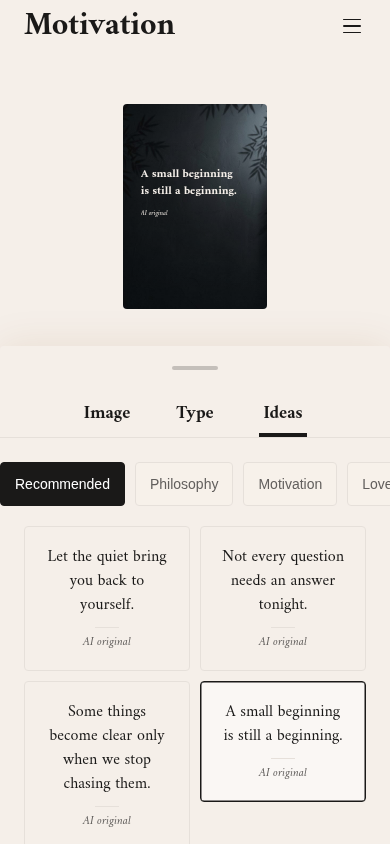
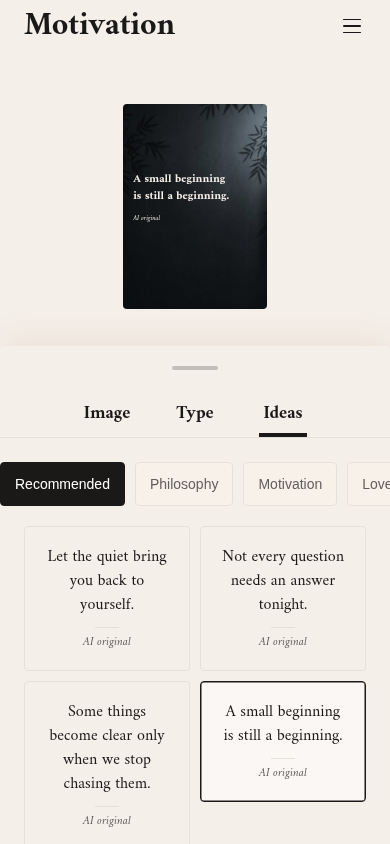
Add settings navigation and local favorites management

Changed region(s): [[0.3385, 0.1848, 0.6154, 0.2773]]

diff --git a/app.js b/app.js
@@ -20,12 +20,17 @@
     catch { storageError('Your changes couldn’t be saved on this device.'); return false; }
   }
   function toast(message) { clearTimeout(timer); $('#toast').textContent = message; $('#toast').classList.add('visible'); timer = setTimeout(() => $('#toast').classList.remove('visible'),3000); }
+  function paint(wallpaper, value) {
+    const image = wallpaper.querySelector('.wallpaper-image');
+    if (image.getAttribute('src') !== backgrounds[value.background]) image.src = backgrounds[value.background];
+    wallpaper.querySelector('.quote').textContent = value.quote;
+    wallpaper.querySelector('.source').textContent = value.source;
+    wallpaper.querySelector('.wallpaper-copy').style.textAlign = value.align;
+  }
   function render() {
-    $$('.wallpaper-image').forEach(img => { if (img.getAttribute('src') !== backgrounds[design.background]) img.src = backgrounds[design.background]; });
-    $$('.quote').forEach(el => el.textContent = design.quote);
-    $$('.source').forEach(el => el.textContent = design.source);
-    $$('.wallpaper-copy').forEach(el => el.style.textAlign = design.align);
+    $$('#home .wallpaper, #preview-close .wallpaper').forEach(el => paint(el, design));
     $('#entry-image').src = backgrounds[design.background];
+    $('#favorites-count').textContent = favorites.length;
     const isFavorite = favorites.some(d => signature(d) === signature(design));
     $('#favorite').setAttribute('aria-pressed', String(isFavorite));
     $('#favorite').setAttribute('aria-label', isFavorite ? 'Remove from favorites' : 'Add to favorites');
@@ -44,7 +49,7 @@
   $$('[data-open]').forEach(el => el.addEventListener('click',() => { returnFocus=el; syncFields(); changeTab(el.dataset.open); setExpanded(false); editor.hidden=false; document.body.classList.add('editing'); $('#home').inert=true; $('.header').inert=true; document.body.style.overflow='hidden'; $('#tab-'+el.dataset.open).focus(); }));
   $('#brand').addEventListener('click',() => window.scrollTo({top:0,behavior:'smooth'}));
   $('#preview-close').addEventListener('click',close);
-  $('#menu').addEventListener('click',() => toast('Menu pages haven’t been added yet.'));
+  $('#menu').addEventListener('click',() => navigate('settings'));
   $('#save').addEventListener('click',() => toast('Saving images isn’t enabled in this demo yet.'));
   $('#share').addEventListener('click',() => toast('System sharing isn’t enabled in this demo yet.'));
   $('#favorite').addEventListener('click',() => {
@@ -140,6 +145,69 @@
     $$('[data-category]').forEach(el => el.setAttribute('aria-pressed',String(el.dataset.category===category))); render();
   }
   $$('[data-category]').forEach(el => el.addEventListener('click',() => { category=el.dataset.category; renderIdeas(); }));
+  function navigate(page = '') {
+    window.history.pushState(null, '', page ? '#' + page : window.location.pathname + window.location.search);
+    renderRoute();
+  }
+  function renderFavorites() {
+    const grid = $('#favorites-grid');
+    grid.replaceChildren();
+    $('#favorites-empty').hidden = favorites.length > 0;
+    favorites.forEach((saved, index) => {
+      const item = document.createElement('div'); item.className = 'favorite-item';
+      const restore = document.createElement('button'); restore.type = 'button'; restore.className = 'favorite-restore';
+      restore.setAttribute('aria-label', 'Use wallpaper: ' + (saved.quote || 'Untitled'));
+      const wallpaper = $('#home .wallpaper').cloneNode(true);
+      paint(wallpaper, saved); restore.append(wallpaper);
+      restore.addEventListener('click', () => { design = {...saved}; syncFields(); render(); persist(); navigate(); });
+      const remove = document.createElement('button'); remove.type = 'button'; remove.className = 'favorite-remove'; remove.textContent = 'Remove';
+      remove.setAttribute('aria-label', 'Remove wallpaper: ' + (saved.quote || 'Untitled'));
+      remove.addEventListener('click', () => {
+        const previous = favorites.slice(); favorites.splice(index, 1);
+        if (!persist()) { favorites = previous; toast('Your favorite couldn’t be removed on this device.'); return; }
+        render(); renderFavorites();
+        (grid.querySelector('.favorite-remove') || $('#detail-title')).focus();
+      });
+      item.append(restore, remove); grid.append(item);
+    });
+  }
+  function renderRoute(focus = true) {
+    const page = window.location.hash.slice(1);
+    const detail = ['favorites', 'language', 'feedback', 'privacy'].includes(page);
+    const settings = page === 'settings';
+    $('#home').hidden = settings || detail;
+    $('.header').hidden = settings || detail;
+    $('#settings').hidden = !settings;
+    $('#settings-detail').hidden = !detail;
+    $$('.detail-panel').forEach(el => { el.hidden = el.id !== 'detail-' + page; });
+    if (detail) {
+      const titles = {favorites:'Favorites', language:'Language', feedback:'Feedback', privacy:'Privacy Policy'};
+      $('#detail-title').textContent = titles[page];
+      if (page === 'favorites') renderFavorites();
+    }
+    const heading = detail ? $('#detail-title') : settings ? $('#settings-title') : $('#brand');
+    heading.tabIndex = -1;
+    if (focus) { window.scrollTo(0, 0); heading.focus({preventScroll:true}); }
+  }
+  $$('[data-settings]').forEach(el => el.addEventListener('click', () => navigate(el.dataset.settings)));
+  $('#settings-back').addEventListener('click', () => navigate());
+  $('#detail-back').addEventListener('click', () => navigate('settings'));
+  $('#favorites-home').addEventListener('click', () => navigate());
+  $('#english-language').addEventListener('click', () => {
+    try { localStorage.setItem('motivation.language', 'en'); toast('Language set to English'); }
+    catch { toast('Your language preference couldn’t be saved on this device.'); }
+  });
+  $('#copy-feedback').addEventListener('click', async () => {
+    const field = $('#feedback-input'), status = $('#feedback-status');
+    if (!field.value.trim()) { status.textContent = 'Please enter your feedback first.'; field.focus(); return; }
+    try {
+      if (!navigator.clipboard?.writeText) throw Error('Clipboard unavailable');
+      await navigator.clipboard.writeText(field.value);
+      status.textContent = 'Feedback copied. It has not been sent.';
+    } catch { field.focus(); field.select(); status.textContent = 'Copy isn’t available here. Select and copy your message manually.'; }
+  });
+  window.addEventListener('hashchange', () => renderRoute());
+  window.addEventListener('popstate', () => renderRoute());
   let drag=null, suppressClick=false;
   $('#handle').addEventListener('click',() => { if (suppressClick) { suppressClick=false; return; } setExpanded(!expanded); });
   $('#handle').addEventListener('pointerdown',event => { if (event.button!==0) return; suppressClick=false; drag={y:event.clientY,height:sheet.getBoundingClientRect().height,expanded}; event.currentTarget.setPointerCapture(event.pointerId); });
@@ -168,5 +236,5 @@
   window.visualViewport?.addEventListener('resize',viewport); window.visualViewport?.addEventListener('scroll',viewport); viewport();
   document.addEventListener('focusin',event => { if (event.target.matches('textarea')) setTimeout(() => event.target.scrollIntoView({block:'nearest'}),100); });
   window.addEventListener('pagehide',persist);
-  syncFields(); renderIdeas(); render();
+  syncFields(); renderIdeas(); render(); renderRoute(false);
 })();

diff --git a/index.html b/index.html
@@ -1,6 +1,6 @@
 <!doctype html>
 <html lang="en">
-<head><meta charset="utf-8"><meta name="viewport" content="width=device-width, initial-scale=1, viewport-fit=cover"><meta name="theme-color" content="#F5EFE9"><title>Motivation</title><link rel="stylesheet" href="styles.css?v=20261020-2"><script src="app.js?v=20261020-2" defer></script></head>
+<head><meta charset="utf-8"><meta name="viewport" content="width=device-width, initial-scale=1, viewport-fit=cover"><meta name="theme-color" content="#F5EFE9"><title>Motivation</title><link rel="stylesheet" href="styles.css?v=20261021-1"><script src="app.js?v=20261021-1" defer></script></head>
 <body>
 <div class="app">
 <header class="header"><button class="brand" id="brand">Motivation</button><button class="icon-button menu" id="menu" aria-label="Open menu"><span></span><span></span><span></span></button></header>
@@ -19,6 +19,24 @@
 <button class="primary" id="save">Save</button>
 <p id="storage-error" class="error" role="status" hidden></p>
 </main>
+
+<section id="settings" class="settings" aria-labelledby="settings-title" hidden>
+  <header class="page-heading"><button type="button" class="back-button" id="settings-back" aria-label="Back to home">‹</button><h1 id="settings-title">Settings</h1></header>
+  <nav class="settings-list" aria-label="Settings">
+    <button type="button" class="settings-row" data-settings="language"><span>Language</span><span class="row-detail">English <span aria-hidden="true">›</span></span></button>
+    <button type="button" class="settings-row" data-settings="favorites"><span>Favorites</span><span class="row-detail"><span id="favorites-count">0</span> <span aria-hidden="true">›</span></span></button>
+    <button type="button" class="settings-row" data-settings="feedback"><span>Feedback</span><span aria-hidden="true">›</span></button>
+    <button type="button" class="settings-row" data-settings="privacy"><span>Privacy Policy</span><span aria-hidden="true">›</span></button>
+    <div class="settings-row version-row"><span>Version</span><span id="version-value" class="row-detail">Demo</span></div>
+  </nav>
+</section>
+<section id="settings-detail" class="settings" aria-labelledby="detail-title" hidden>
+  <header class="page-heading"><button type="button" class="back-button" id="detail-back" aria-label="Back to settings">‹</button><h1 id="detail-title">Favorites</h1></header>
+  <div id="detail-favorites" class="detail-panel" hidden><div id="favorites-grid" class="favorites-grid"></div><div id="favorites-empty" class="empty-state"><h2>No favorites yet</h2><p>Tap the bookmark on a wallpaper to keep it here.</p><button type="button" class="primary" id="favorites-home">Create a wallpaper</button></div></div>
+  <div id="detail-language" class="detail-panel" hidden><button type="button" class="settings-row" id="english-language" aria-pressed="true"><span>English</span><span aria-hidden="true">✓</span></button></div>
+  <div id="detail-feedback" class="detail-panel" hidden><label for="feedback-input">Your feedback</label><textarea id="feedback-input" rows="6" placeholder="Tell us what could be better…"></textarea><p class="helper" id="feedback-note">A feedback destination has not been configured yet. Your message is not sent.</p><button type="button" class="primary" id="copy-feedback">Copy feedback</button><p class="helper" id="feedback-status" role="status"></p></div>
+  <div id="detail-privacy" class="detail-panel policy-copy" hidden><p>Privacy details for this demo are awaiting review.</p></div>
+</section>
 <div id="editor" class="editor" role="dialog" aria-modal="true" aria-label="Wallpaper editor" hidden>
 <button class="preview-backdrop" id="preview-close" aria-label="Close editor and return home"><span class="mini-preview"><div class="wallpaper"><img class="wallpaper-image" src="assets/provided-night-0.jpg" alt=""><div class="wallpaper-copy"><p class="quote"></p><p class="source"></p></div></div></span></button>
 <section id="sheet" class="sheet">

diff --git a/styles.css b/styles.css
@@ -9,3 +9,9 @@
 .wallpaper:after{content:"";position:absolute;inset:0;background:linear-gradient(transparent,rgba(0,0,0,.12),transparent);pointer-events:none}.wallpaper-copy{z-index:1}
 
 body.editing #home{visibility:hidden}
+
+/* Settings use the existing page surface, spacing, border and type roles. */
+.settings{min-height:70dvh}.page-heading{display:flex;align-items:center;gap:12px;margin:0 0 24px;min-height:52px}.page-heading h1{font:700 28px/36px var(--serif);margin:0}.back-button{min-width:44px;min-height:44px;font:32px/1 var(--sans);margin-left:-12px}.settings-list{border-top:1px solid var(--border)}.settings-row{display:flex;justify-content:space-between;align-items:center;gap:16px;width:100%;min-height:60px;padding:16px 0;border-bottom:1px solid var(--border);text-align:left;font-size:16px}.row-detail{display:flex;gap:12px;align-items:center;color:var(--secondary);font-size:14px}.version-row{cursor:default}.favorites-grid{display:grid;grid-template-columns:repeat(2,minmax(0,1fr));gap:18px 10px}.favorite-item{min-width:0}.favorite-restore{display:block;width:100%;padding:0;border-radius:4px}.favorite-remove{font-size:13px;min-height:44px;color:var(--secondary);text-decoration:underline;text-underline-offset:4px}.empty-state{padding:40px 0;text-align:center}.empty-state h2{font:700 24px/32px var(--serif);margin:0 0 12px}.empty-state p,.policy-copy p{font-size:14px;line-height:24px;color:var(--secondary);margin:0 0 24px}.empty-state .primary{margin-top:12px}.policy-copy h2{font:700 20px/28px var(--serif);margin:24px 0 12px}
+/* Shared reference-space padding: 24 px top/sides; 10 px above actions. */
+.wallpaper-copy{inset:7.01754cqw 7.01754cqw 21.05263cqw;max-height:none;display:flex;flex-direction:column;justify-content:center;overflow:hidden}.quote,.source{flex-shrink:0}
+.entry>svg{width:39px;height:39px;flex-shrink:0}

diff --git a/tests/ui_smoke.py b/tests/ui_smoke.py
@@ -1,4 +1,4 @@
-from playwright.sync_api import sync_playwright
+from playwright.sync_api import sync_playwright, expect
 import json
 from pathlib import Path
 Path("/tmp/motivation-review").mkdir(exist_ok=True)
@@ -94,6 +94,39 @@ with sync_playwright() as p:
  box=page.locator('#handle').bounding_box();x=box['x']+65;y=box['y']+22
  page.mouse.move(x,y);page.mouse.down();page.mouse.move(x,y+100,steps=8);page.mouse.up()
  assert page.locator('#editor').is_hidden()
+ # Settings navigation, full-design favorites, language preference and truthful feedback.
+ page.locator('#menu').click()
+ page.locator('[data-settings="favorites"]').click()
+ expect(page.locator('.favorite-item')).to_have_count(1)
+ favorite_quote=page.locator('.favorite-item .quote').inner_text()
+ assert favorite_quote==quote
+ page.screenshot(path='/tmp/motivation-review/favorites.png')
+ page.locator('.favorite-restore').click()
+ assert page.locator('#home .quote').inner_text()==quote
+ assert page.locator('#editor').is_hidden()
+ page.locator('#menu').click()
+ page.screenshot(path='/tmp/motivation-review/settings.png')
+ page.locator('[data-settings="favorites"]').click()
+ page.locator('.favorite-remove').click()
+ assert page.locator('#favorites-empty').is_visible()
+ page.reload(wait_until='networkidle')
+ assert page.locator('#favorites-empty').is_visible()
+ page.locator('#detail-back').click()
+ page.locator('[data-settings="language"]').click()
+ page.locator('#english-language').click()
+ assert page.evaluate('localStorage.getItem("motivation.language")')=='en'
+ page.locator('#detail-back').click()
+ page.locator('[data-settings="feedback"]').click()
+ page.locator('#copy-feedback').click()
+ assert page.locator('#feedback-status').inner_text()=='Please enter your feedback first.'
+ page.locator('#feedback-input').fill('The panel could feel smoother.')
+ page.evaluate("Object.defineProperty(navigator, 'clipboard', {configurable:true, value:{writeText:()=>Promise.reject(new Error('denied'))}})")
+ page.locator('#copy-feedback').click()
+ assert 'manually' in page.locator('#feedback-status').inner_text()
+ page.locator('#detail-back').click()
+ page.locator('#settings-back').click()
+ expect(page.locator('#home')).to_be_visible()
+ assert not errors, errors
  # A denied storage write must not claim that a favorite was persisted.
  denied=browser.new_page(viewport={'width':390,'height':844})
  denied.add_init_script("Storage.prototype.setItem = function(){throw new DOMException('denied','SecurityError')}")
@@ -103,5 +136,5 @@ with sync_playwright() as p:
  assert denied.locator('#storage-error').is_visible()
  assert 'couldn’t be saved' in denied.locator('#toast').inner_text()
  denied.close()
- print(json.dumps({'result':'passed','widths':[320,375,390,430],'checks':['layout overflow','placeholder copy','long quote attribution','reload persistence','full-design favorite persistence','background selection','idea filtering and retained layout','populated AI quote categories','pointer drag','tab snap preservation','focus return and trap','truthful export status','empty preview','background geometry','downward dismiss','storage failure rollback','no simulated status gap','expanded sheet top','sticky tabs','specified placeholder and entered text color','no close icon or AI heading'],'pageErrors':errors}))
+ print(json.dumps({'result':'passed','widths':[320,375,390,430],'checks':['layout overflow','placeholder copy','long quote attribution','reload persistence','full-design favorite persistence','background selection','idea filtering and retained layout','populated AI quote categories','pointer drag','tab snap preservation','focus return and trap','truthful export status','empty preview','background geometry','downward dismiss','storage failure rollback','no simulated status gap','expanded sheet top','sticky tabs','specified placeholder and entered text color','no close icon or AI heading','settings navigation','favorite restore and removal','language preference','feedback failure handling'],'pageErrors':errors}))
  browser.close()

diff --git a/.agents/skills/motivation-design/references/design-system.md b/.agents/skills/motivation-design/references/design-system.md
@@ -156,4 +156,11 @@ The user supplied an updated HTML containing 12 dark backgrounds to replace the 
 - Quote placeholder is exactly “Please enter what you want to describe.” Both placeholder and entered quote text use #C4BFBA, matching the user's two explicit color values. Source field styling is unchanged.
 - Remove the “Original words · AI-created” heading above inspiration cards. This does not change the source of generated content or authorize false author attributions.
 - Remove the visible sheet close icon. Preview click, handle toggle, downward drag and Escape remain.
-- Typography and Inspiration icon replacements are pending user-supplied assets; keep current icons until received. Preferred transparent SVG at 39 × 39 and 34 × 34 logical dimensions respectively, or 3× transparent PNG at 117 × 117 and 102 × 102.
+- Typography and Inspiration icon replacements are pending user-supplied assets; keep current icons until received. Preferred transparent SVG with the same 39 × 39 logical canvas for both icons, or 3× transparent PNG at 117 × 117. Preserve internal whitespace; do not crop the supplied artwork.
+
+
+## Current settings and text-boundary work
+
+The user authorizes Settings implementation. Reuse existing ivory surfaces, thin dividers, serif titles and sans-serif operational labels. Favorites restore or remove full locally stored designs. Feedback copy must never imply submission. Language range, feedback destination and privacy/version copy await user replies; current placeholders are not completed features.
+
+The latest annotated screenshot specifies 24 px top/left/right in the reference wallpaper and at least 10 px between attribution and action buttons. Scale that shared reference composition for mini/favorite previews. Overflow behavior (input limit versus font fitting) requires user confirmation before adopting a new rule.

diff --git a/docs/DESIGN_SYSTEM.md b/docs/DESIGN_SYSTEM.md
@@ -156,4 +156,11 @@ The user supplied an updated HTML containing 12 dark backgrounds to replace the 
 - Quote placeholder is exactly “Please enter what you want to describe.” Both placeholder and entered quote text use #C4BFBA, matching the user's two explicit color values. Source field styling is unchanged.
 - Remove the “Original words · AI-created” heading above inspiration cards. This does not change the source of generated content or authorize false author attributions.
 - Remove the visible sheet close icon. Preview click, handle toggle, downward drag and Escape remain.
-- Typography and Inspiration icon replacements are pending user-supplied assets; keep current icons until received. Preferred transparent SVG at 39 × 39 and 34 × 34 logical dimensions respectively, or 3× transparent PNG at 117 × 117 and 102 × 102.
+- Typography and Inspiration icon replacements are pending user-supplied assets; keep current icons until received. Preferred transparent SVG with the same 39 × 39 logical canvas for both icons, or 3× transparent PNG at 117 × 117. Preserve internal whitespace; do not crop the supplied artwork.
+
+
+## Current settings and text-boundary work
+
+The user authorizes Settings implementation. Reuse existing ivory surfaces, thin dividers, serif titles and sans-serif operational labels. Favorites restore or remove full locally stored designs. Feedback copy must never imply submission. Language range, feedback destination and privacy/version copy await user replies; current placeholders are not completed features.
+
+The latest annotated screenshot specifies 24 px top/left/right in the reference wallpaper and at least 10 px between attribution and action buttons. Scale that shared reference composition for mini/favorite previews. Overflow behavior (input limit versus font fitting) requires user confirmation before adopting a new rule.

diff --git a/.agents/skills/motivation-design/SKILL.md b/.agents/skills/motivation-design/SKILL.md
@@ -25,7 +25,7 @@ The latest explicit user instructions take precedence. If requirements change, u
 - Favorites store the complete wallpaper locally. Auto-save the current design on this device. No login, cross-device sync, subscriptions, undo/redo or separate editable-works library.
 - Save exports a high-resolution image; Share shares the image. Final export ratio and resolution are explicitly deferred. Do not silently decide them.
 - Menu scope is Language, Favorites, Feedback, version information and Privacy Policy. Omit the deferred “用户didi” item. Additional languages, feedback destination and legal text are not yet supplied.
-- Current sequencing: complete existing component specifications and visual review before implementing other pages. A component showcase can demonstrate the current system without expanding navigation scope.
+- Settings pages are now explicitly authorized. Reuse the established visual system; language options, feedback destination, privacy/version copy and quote overflow handling require the pending user answers.
 
 ## Workflow
 
@@ -52,3 +52,5 @@ The latest explicit user instructions take precedence. If requirements change, u
 See the reference for complete tokens, measurements, component contracts and acceptance checks. No external messaging, publishing or deployment is authorized merely by applying this skill.
 
 User-confirmed UI revision: no simulated iOS status-area spacer, no visible sheet close icon, and no “Original words · AI-created” heading. See the latest reference section for screenshot geometry and input color. Keep icon replacements pending until the user supplies them.
+
+Both replacement entry icons use the same 39×39 logical container, preserving the supplied internal whitespace. The latest reference supersedes the earlier different export sizes.

diff --git a/docs/PROJECT_STATUS.md b/docs/PROJECT_STATUS.md
@@ -152,3 +152,13 @@
 
 - 本轮已通过 Chromium 320/375/390/430px 检查；另验证展开面板 top=20、内容滚动时标签栏坐标固定、Quote 两种文字状态色值正确、关闭按钮及 AI 标题不存在。截图已刷新，原型不变。
 - 待用户在真实 iPhone Safari 复查。新图标收到前不替换。CSS/JS 引用已带本轮版本号，避免手机继续使用旧缓存。
+
+## 设置与文案边界进行中（2026-10-21）
+
+- 用户要求先补设置功能，再按截图限制首页文案。截图确认左右/顶部 24px，署名与按钮区至少 10px。
+- 已添加 Settings 导航、Language（当前仅 English）、Favorites 完整壁纸恢复/删除/空态、Feedback 编辑/复制及失败回退；反馈不会声称已发送。浏览器返回/前进支持。
+- Privacy Policy 暂为待审提示，Version 暂标 Demo；用户确认前不填正式法律内容、邮箱或版本号。
+- 已把主页/缩小预览/收藏预览的文案区域统一为参考尺寸上左右各24px，底部预留按钮区+10px，未擅自添加字号缩放或字符上限。极长文字的处理还未完成，需用户选择输入长度限制/自动缩小/缩小后再限制。
+- 已异步集中询问四项：溢出处理、语言范围、反馈去向、隐私说明与版本号，尚未回复。后续以回复为准，不能认为功能全部完成。
+- 已修正首页图标容器为统一39×39，保留自带留白；替换素材仍未收到。
+- 当前浏览器检查通过：收藏恢复与删除持久化、设置导航、语言存储、反馈复制失败处理及原有编辑交互；截图在 docs/previews/。

diff --git a/README.md b/README.md
@@ -15,7 +15,10 @@ is needed. Background images and Amiri fonts are served locally. Drafts and full
 wallpaper favorites are stored on this device, scoped to the browser origin.
 
 The current implementation covers home and Image / Type / Ideas editing.
-Menu destination pages, AI generation and image export/share are not implemented.
+Settings navigation, local favorite restore/removal and feedback copying are available.
+Additional language choices, the feedback destination, privacy/version copy and
+long-quote overflow policy are pending user confirmation. Live AI generation
+and image export/share are not implemented.
 Their controls do not report successful operations. Export ratio remains deferred.
 The demo includes 12 AI-written original English quotes and 12 user-supplied dark
 backgrounds. The quote copy is pre-generated built-in content; no live AI endpoint is called.
